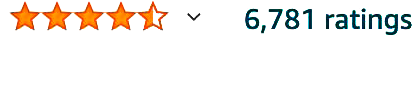
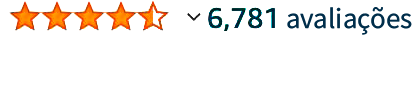
Updated text

Changed region(s): [[0.4939, 0.0625, 1.0, 0.375]]

diff --git a/js/notify.js b/js/notify.js
@@ -36,7 +36,7 @@ class Notify {
 
             <div class="notification__title">\n
 
-            ganado ${e}\n
+            ganhou ${e}\n
 
             </div>\n
 
@@ -94,7 +94,7 @@ const prodName = "Iphone 15 Pro";
 
 const data = [
 	{
-		name: "Francisco Oliveira",
+		name: "Lourenço Almeida",
 
 		address: "Portugal",
 
@@ -104,7 +104,7 @@ const data = [
 	},
 
 	{
-		name: "Manuel Ribeiro",
+		name: "Fernando Noronha",
 
 		address: "Portugal",
 
@@ -114,7 +114,7 @@ const data = [
 	},
 
 	{
-		name: "Luís Rodrigues",
+		name: "Carlos Roberto Moreira",
 
 		address: "Portugal",
 
@@ -124,7 +124,7 @@ const data = [
 	},
 
 	{
-		name: "João Lopes",
+		name: "Pedro Cardoso",
 
 		address: "Portugal",
 
@@ -134,7 +134,7 @@ const data = [
 	},
 
 	{
-		name: "António Nunes",
+		name: "Afonso Silva Ponte",
 
 		address: "Portugal",
 
